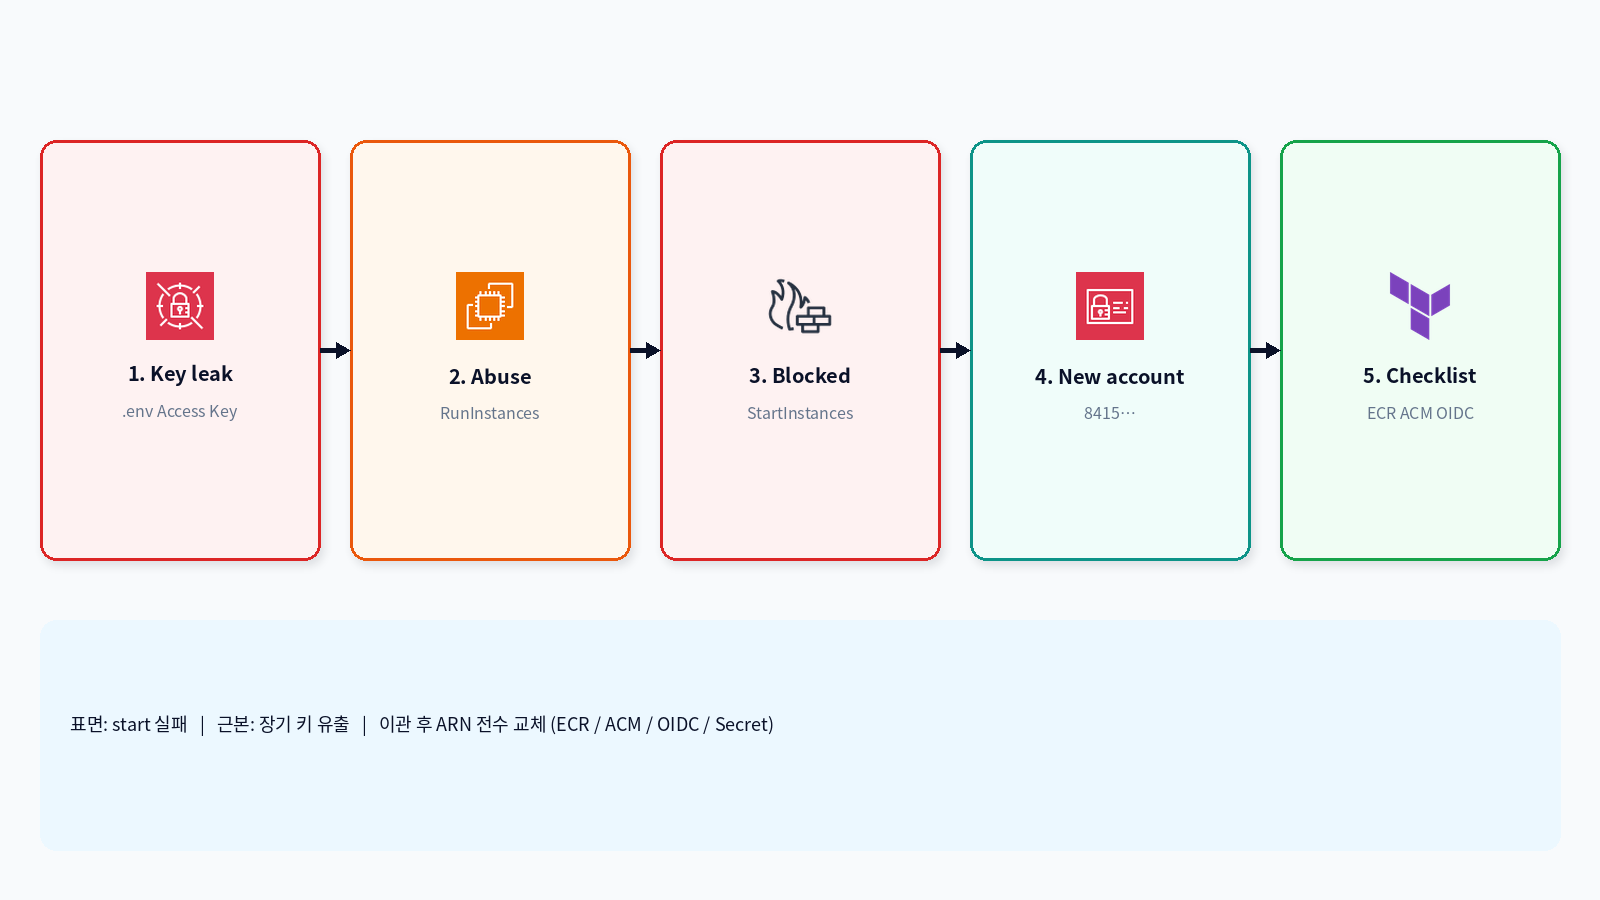
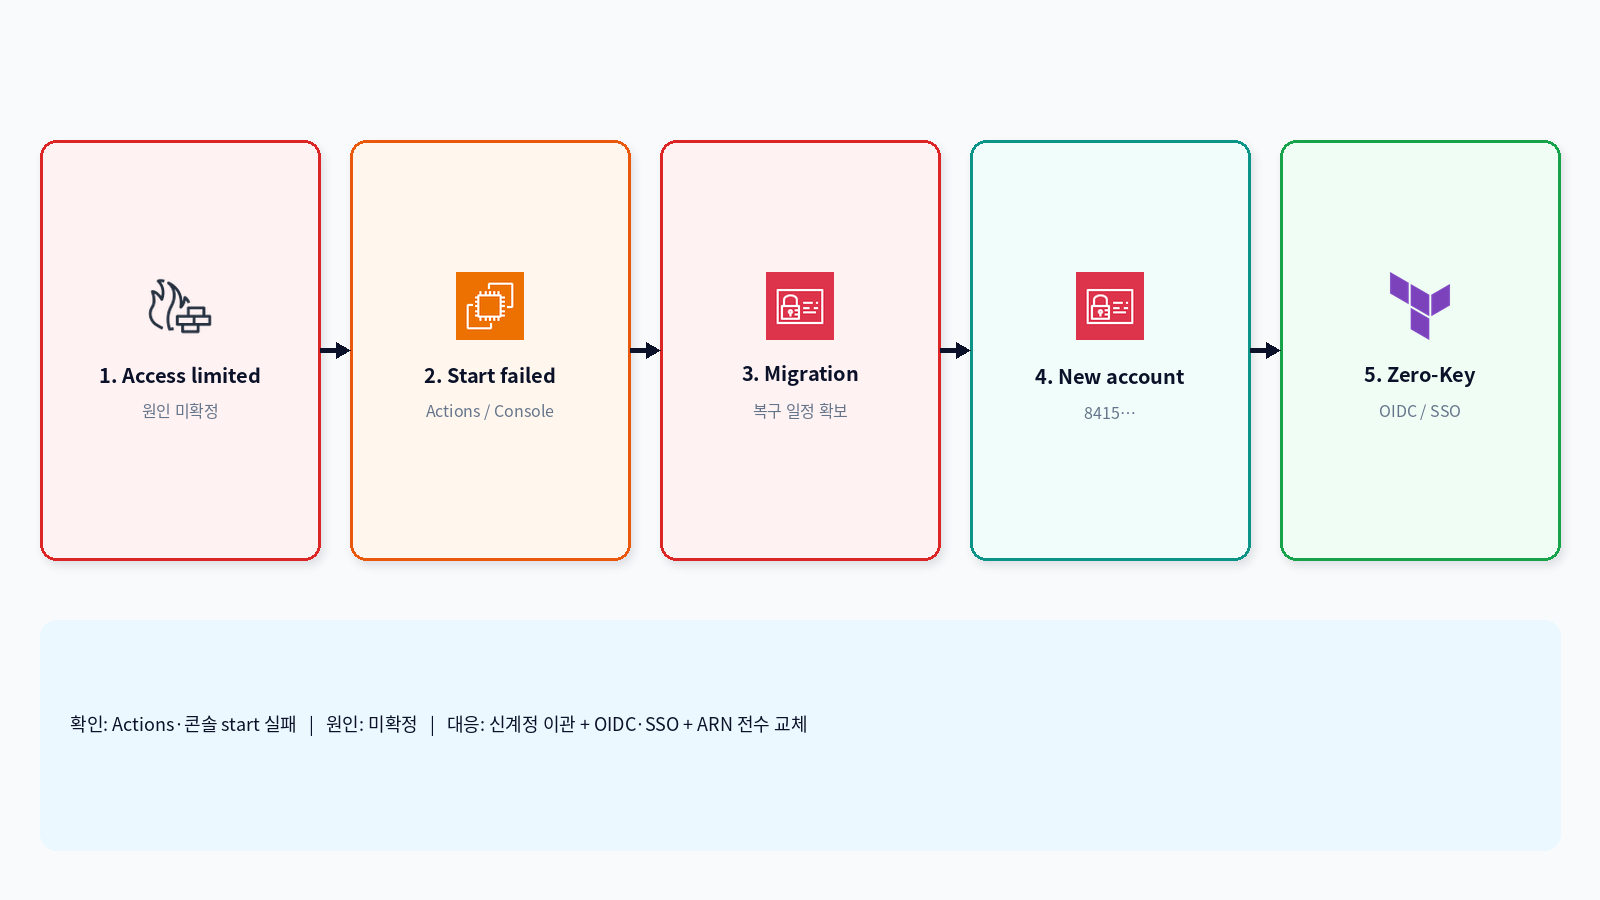
docs: verify and refine V2 presentation

diff --git a/docs/presentation/make_v2_schedule.py b/docs/presentation/make_v2_schedule.py
@@ -46,9 +46,14 @@ def main():
     img = Image.new("RGB", (W, H), BG)
     draw = ImageDraw.Draw(img)
 
-    draw.text((55, 36), "V2 일정", font=font(44, True), fill=TEXT)
-    draw.text((270, 50), "준비 → 구축 → 이관 → 복구 → 정리 → 보안", font=font(22, True), fill="#00AEEF")
-    draw.rectangle((55, 105, 275, 113), fill="#00AEEF")
+    centered(draw, (0, 25, W, 85), "V2 일정  ·  단계별 진행", font(58, True), TEXT)
+    centered(
+        draw,
+        (0, 88, W, 120),
+        "준비 → 구축 → 이관 → 복구 → 정리 → 보안",
+        font(22, True),
+        "#00AEEF",
+    )
 
     dates = [
         ("9/11", "금"),
@@ -139,13 +144,13 @@ def main():
                 "Helm 차트\n로컬 쿠버",
                 "PVC 검증",
                 "파드 한도\nQuota",
-                "백업·Loki\n설정",
+                "백업 IRSA",
+                "Loki·Alloy\nAlert·Tempo",
                 "—",
-                "—",
-                "DB 덤프\nmariadb-dump",
-                "OTel·Tempo\nAlertManager",
-                "파드\n안티어피니티",
-                "부하\n테스트",
+                "DB dump\nSlack 연동",
+                "OTel 연동\n안티어피니티",
+                "Tempo 배포\n파드 분산",
+                "부하 테스트\nASGI trace",
             ],
         ),
     ]
@@ -172,6 +177,11 @@ def main():
                 )
             else:
                 centered(draw, (left, top, left + col_w, top + row_h), value, font(28), "#CBD5E1")
+
+    draw.text((55, 1305), "Aniverse  ·  Architecture V1 → V2", font=font(18), fill=MUTED)
+    page = "17 / 18"
+    page_box = draw.textbbox((0, 0), page, font=font(18, True))
+    draw.text((2345 - (page_box[2] - page_box[0]), 1305), page, font=font(18, True), fill="#2563EB")
 
     OUT.parent.mkdir(parents=True, exist_ok=True)
     img.save(OUT, "PNG", optimize=True)

diff --git a/docs/presentation/make_aniverse_v1v2_ppt.py b/docs/presentation/make_aniverse_v1v2_ppt.py
@@ -142,7 +142,9 @@ def footer(slide, n):
     r = p.add_run()
     r.text = "Aniverse  ·  Architecture V1 → V2"
     font(r, 13, False, GRAY)
-    num = slide.shapes.add_textbox(Inches(11.3), Inches(7.15), Inches(1.5), Inches(0.28))
+    # 두 자리 페이지 번호도 LibreOffice 렌더링에서 잘리지 않도록
+    # 오른쪽 여백과 텍스트 상자 폭을 넉넉하게 확보한다.
+    num = slide.shapes.add_textbox(Inches(10.75), Inches(7.15), Inches(2.0), Inches(0.28))
     p = num.text_frame.paragraphs[0]
     r = p.add_run()
     r.text = f"{n} / {TOTAL}"
@@ -489,14 +491,14 @@ def slide_load_trace(prs):
             [
                 "/works/ 응답 최대 약 2.91초",
                 "Tempo 트레이스로 구간 병목 위치 확인",
-                "WAF RateLimit에 걸려 차단된 구간도 확인",
+                "ASGI 계측 보완 후 실제 요청 트레이스 확인",
             ],
         ),
         (
             RED,
             "남은 과제",
             [
-                "Redis TimeoutError는 미해결",
+                "Redis TimeoutError 수정 후 재검증",
                 "병목 구간 쿼리·캐시 최적화",
                 "부하 시나리오와 WAF 한도 정합",
             ],
@@ -650,7 +652,7 @@ def slide_qa(prs):
     )
     add_para(
         roles.text_frame,
-        "강유민 — 컴퓨트 · 트래픽 (노드 · ALB 연동)",
+        "강유민 — 서비스 UI · 콘텐츠 (커뮤니티 · 장터 · 창작)",
         16,
         False,
         RGBColor(226, 232, 240),

diff --git a/docs/presentation/make_hybrid_diagrams.py b/docs/presentation/make_hybrid_diagrams.py
@@ -424,11 +424,11 @@ def make_observability():
 def make_account():
     img = Image.new("RGBA", (W, H), BG + (255,))
     steps = [
-        (40, RED, SOFT_RED, "secrets", "1. Key leak", ".env Access Key"),
-        (350, ORANGE, SOFT_ORANGE, "ec2", "2. Abuse", "RunInstances"),
-        (660, RED, SOFT_RED, "firewall", "3. Blocked", "StartInstances"),
+        (40, RED, SOFT_RED, "firewall", "1. Access limited", "원인 미확정"),
+        (350, ORANGE, SOFT_ORANGE, "ec2", "2. Start failed", "Actions / Console"),
+        (660, RED, SOFT_RED, "iam", "3. Migration", "복구 일정 확보"),
         (970, TEAL, SOFT_TEAL, "iam", "4. New account", "8415…"),
-        (1280, GREEN, SOFT_GREEN, "terraform", "5. Checklist", "ECR ACM OIDC"),
+        (1280, GREEN, SOFT_GREEN, "terraform", "5. Zero-Key", "OIDC / SSO"),
     ]
     for x, color, bg, icon, title, sub in steps:
         tile(img, x, 140, 280, 420, icon, title, sub, color, bg, 68)
@@ -439,7 +439,7 @@ def make_account():
     d = ImageDraw.Draw(img)
     d.text(
         (70, 710),
-        "표면: start 실패   |   근본: 장기 키 유출   |   이관 후 ARN 전수 교체 (ECR / ACM / OIDC / Secret)",
+        "확인: Actions·콘솔 start 실패   |   원인: 미확정   |   대응: 신계정 이관 + OIDC·SSO + ARN 전수 교체",
         font=fnt(18),
         fill=NAVY,
     )

diff --git a/docs/presentation/make_hybrid_ppt.py b/docs/presentation/make_hybrid_ppt.py
@@ -369,7 +369,7 @@ def issue_tech(prs):
 
 def issue_account(prs):
     s = blank(prs)
-    header(s, "6. 계정 Block → 이관", "표면은 start 실패 · 근본은 키 유출")
+    header(s, "6. 계정 접근 제한 → 이관", "정확한 원인은 미확정 · OIDC·SSO 기반으로 재구성")
     put_img(s, "hybrid_08_account.png")
     footer(s, 15)
 

diff --git a/docs/presentation/PPT_트러블슈팅_계정이관.md b/docs/presentation/PPT_트러블슈팅_계정이관.md
@@ -3,19 +3,19 @@
 발표 슬라이드에 옮기기 쉬운 요약본.  
 원본 상세: [troubleshooting-log.md](../troubleshooting-log.md)
 
-**스토리 한 줄:** 키 유출로 구계정 Block → 신계정으로 이관 → ARN/인증서/시크릿/Argo 설정이 연쇄로 깨짐 → 하나씩 원인 고정.
+**스토리 한 줄:** 구계정 접근 제한 → 신계정으로 이관 → ARN/인증서/시크릿/Argo 설정이 연쇄로 깨짐 → 하나씩 복구.
 
 | | 구계정 | 신계정 |
 |--|--------|--------|
 | Account | `679583587966` | `841535407395` |
-| 계기 | `iac-admin` Access Key 유출 → Block | 운영 이전 |
+| 계기 | 계정 접근 제한 (원인 미확정) | 운영 이전 |
 
 ---
 
-## 슬라이드 A — 계정 Block (보안)
+## 슬라이드 A — 계정 접근 제한
 
 ### 제목
-표면은 `EKS start` 실패, 근본은 **Access Key 유출**
+`EKS start` 실패로 시작된 계정 접근 제한
 
 ### 증상 (1줄)
 Actions·콘솔 모두 `StartInstances` → **`Blocked`**
@@ -23,26 +23,26 @@ Actions·콘솔 모두 `StartInstances` → **`Blocked`**
 ### 잘못된 첫인상
 「GitHub Actions / start 스크립트 버그」
 
-### 실제 원인
-- `iac-admin` **장기 Access Key**가 GitHub `.env` 등에 노출
-- 도용 계정으로 **무단 `RunInstances`** (NAT AMI가 아닌 AMI)
-- AWS가 계정 제한 → EC2/NAT/워커 start 불가
+### 확인된 범위
+- Actions뿐 아니라 콘솔에서도 인스턴스 시작이 제한됨
+- 제한의 정확한 원인은 최종 확정하지 않음
+- 복구 일정 때문에 다른 팀원 계정으로 이관
 
 ### 교훈 (PPT bullet)
-1. **표면 로그 ≠ 근본 원인** (Blocked ≠ Terraform 문법 오류)
-2. 장기 Access Key 금지 → **GitHub OIDC**
+1. **표면 로그만으로 원인을 단정하지 않음**
+2. 재발 방지를 위해 장기 Access Key 대신 **GitHub OIDC·SSO**
 3. `.env` / 깃에 키 금지 · MFA · Budgets
-4. Support Resolved여도 제한 남을 수 있음 → 전담 에스컬레이션
+4. 계정 이관 시 ARN·인증서·레지스트리·권한을 모두 재검증
 
 ### 한 장 도식 (말풍선)
 ```
-.env에 iac-admin 키 노출
+  계정 접근 제한
         ↓
-  무단 RunInstances (CloudTrail)
+ Actions·콘솔에서 start 실패
         ↓
-   AWS Account Blocked
+  정확한 원인은 미확정
         ↓
-  StartInstances 전부 실패  ←── 우리가 본 증상
+ 신계정 이관 + Zero-Key 전환
 ```
 
 ---
@@ -51,7 +51,7 @@ Actions·콘솔 모두 `StartInstances` → **`Blocked`**
 
 | Before | After |
 |--------|--------|
-| 구계정 Block으로 컴퓨트 기동 불가 | 신계정 `841535407395` 에 EKS·OIDC·ACM 재구축 |
+| 구계정 접근 제한으로 컴퓨트 기동 불가 | 신계정 `841535407395` 에 EKS·OIDC·ACM 재구축 |
 | 포트폴리오/실습 일정 리스크 | GitOps(Argo)·Actions 경로 유지 |
 
 **이관 ≠ 복사:** 리소스 ARN·레지스트리·DNS·IAM이 **전부 새 ID**.  
@@ -145,7 +145,7 @@ ALB Controller가 ADDRESS를 못 만듦
 - [ ] (선택) DB dump main + Verify · media sync
 
 **한 줄 마무리 멘트 예시**  
-“계정 Block은 키가 원인이다. 이관 후에는 ARN을 안 고치면 Block과 다른 증상으로 같은 서비스가 또 죽는다.”
+“접근 제한의 정확한 원인은 확정하지 않았습니다. 대신 재발 방지를 위해 장기 키 없는 구조로 바꾸고, 이관 후 모든 ARN과 권한을 다시 검증했습니다.”
 
 ---
 

diff --git a/docs/presentation/SPEAKER_NOTES_V1V2.md b/docs/presentation/SPEAKER_NOTES_V1V2.md
@@ -20,11 +20,11 @@ PPT: `ppt/Aniverse_V1V2_발표_working.pptx`
 | 10 | 기술 스택 | Argo 아이콘 · Tempo/Grafana/Alert · TF·IRSA·ESO |
 | 11 | 데이터 흐름 | PVC vs S3 · 시드(Git SQL) / 주기 백업(S3) 경로 |
 | 12 | 앞으로 보완할 점 | 트레이싱은 성과로 이동 · 발표·시연 칸 삭제 |
-| 13 | 부하 · 트레이싱 | HPA 2→4 · /works 병목 · Redis Timeout |
+| 13 | 부하 · 트레이싱 | HPA 2→4 · /works 병목 · Redis Timeout 재검증 |
 | 14 | 트러블슈팅 · GitOps·CI/CD | 현우 |
 | 15 | 트러블슈팅 · EKS | 서이 |
 | 16 | 트러블슈팅 · DB·관측 | 윤주 |
-| 17 | V2 일정 | 9/29 RBAC · DB·관측 일정 보강 |
+| 17 | V2 일정 | 실제 커밋 날짜에 맞춘 DB·관측·추적 일정 |
 | 18 | Q & A | 팀 역할 한 줄 |
 
 ## 8장 발표 멘트
@@ -37,6 +37,14 @@ PPT: `ppt/Aniverse_V1V2_발표_working.pptx`
 
 ## 13–16장 발표 멘트
 
+**13장 · 부하테스트·트레이싱** — 부하테스트에서 web 파드가 2개에서 4개로 늘어나는 것을 확인했습니다. `/works/` 응답은 최대 약 2.91초로 가장 느렸고, ASGI 계측 패키지를 보완한 뒤 Tempo에서 실제 요청 트레이스를 확인했습니다. Redis TimeoutError는 의존성 버전을 조정했으며 같은 부하 조건에서 재검증이 남아 있습니다.
 **14장 · 현우** — 중지 검증, Argo Missing(SSA), 시드 행 검증  
 **15장 · 서이** — HPA replicas 충돌, Terraform 생성 순서, DB 비밀번호 로테이션  
 **16장 · 윤주** — 백업 0바이트, Alloy max-pods, Slack 웹훅
+
+## 18장 팀 역할
+
+- 김현우 — GitOps·CI/CD
+- 박서이 — EKS·네트워크·보안
+- 김윤주 — 컨테이너·DB·관측
+- 강유민 — 서비스 UI·콘텐츠

diff --git a/docs/presentation/CONTENT_V1V2_working.md b/docs/presentation/CONTENT_V1V2_working.md
@@ -46,8 +46,8 @@
 
 ### 13. 부하 · 트레이싱
 - 성과: HPA 2→4, Tempo/OTel 수집, Slack 알림
-- 병목: /works 최대 ~2.91초, WAF RateLimit 차단 확인
-- 과제: Redis TimeoutError 미해결
+- 병목: /works 최대 ~2.91초, ASGI 계측 보완 후 실제 요청 트레이스 확인
+- 과제: Redis TimeoutError 수정 후 재검증
 
 ### 15. 트러블슈팅 · EKS (서이)
 - HPA replicas 충돌 (9/15)
@@ -56,7 +56,8 @@
 
 ### 17. 일정
 - 9/29 EKS: RBAC 설정
-- DB·관측: 9/18 백업·Loki, 9/28 OTel·Tempo·AlertManager, 9/29 안티어피니티, 10/1 부하테스트
+- DB·관측: 9/18 백업 IRSA, 9/21 Loki·Alloy·Alert·Tempo 설정, 9/23 DB dump·Slack
+- 성능·추적: 9/28 OTel·안티어피니티, 9/29 Tempo 배포·파드 분산, 10/1 부하테스트·ASGI trace
 
 ---
 
